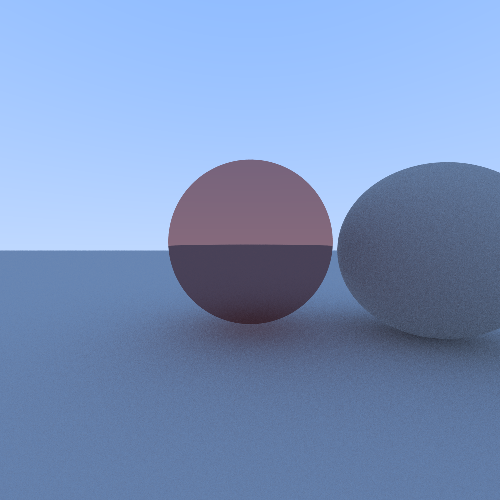
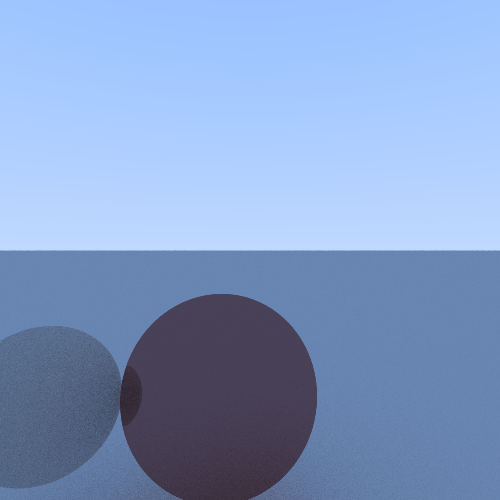
rotation

diff --git a/src/main.rs b/src/main.rs
@@ -2,44 +2,42 @@ mod vec3;
 mod render;
 mod geometry;
 use std::env;
-use vec3::{Vec3, Point};
+use vec3::Vec3;
 use render::{display, transform, Pixel};
-use geometry::{Object, Ray, Material, Reflection};
+use geometry::{Camera, Material, Object, Ray, Reflection};
 use rand::Rng;
-use std::{self, process::Command};
+use std;
 pub const WIDTH: usize = 500;
 pub const HEIGHT: usize = 500;
 //https://raytracing.github.io/books/RayTracingInOneWeekend.html
-
-const CAMERA: Point = Vec3::new(0., -3., 0.);
 
 
 
 //fragment shader -> runs for every pixel
 fn frag(x: usize, y: usize) -> Pixel{
     //uv coordinates between -focal->focal
-    let focal = 1.;
+    let focal = 0.7;
     let mut ux = (x as f32) / (WIDTH as f32) * (focal  * 2.)- focal;
     let uy = ((y as f32) / (HEIGHT as f32) * (focal * 2.) - focal) * -1.;
     ux *= WIDTH as f32/HEIGHT as f32;
     
     let white = Vec3::new(1., 1., 1.);
     let objects: Vec<Object> = vec![
-        Object::Sphere {pos: Vec3::new(2.1, 0., 0.), rad: 1., mat: Material{color: white.clone(), refl: Reflection::Diffuse()}},
+        Object::Sphere {pos: Vec3::new(0., 0., 0.), rad: 0.5, mat: Material{color: white.clone(), refl: Reflection::Diffuse()}},
         Object::Plane {pos: Vec3::new(0., 0., -1.), normal: Vec3::new(0., 0., 1.), mat: Material{color: white.clone(), refl: Reflection::Diffuse()}},
         //Object::Sphere {pos: Vec3::new(0., 0., -40.), rad: 39., mat: Material{color: Vec3::new(1., 1., 0.), refl: Reflection::Diffuse()}},
-        Object::Sphere {pos: Vec3::new(0., 0.2, 0.1), rad: 1., mat: Material{color: Vec3::new(1., 0.7, 0.7), refl: Reflection::Metal()}},
+        Object::Sphere {pos: Vec3::new(1.19, 0.2, 0.0), rad: 0.7, mat: Material{color: Vec3::new(1., 0.7, 0.7), refl: Reflection::Metal()}},
     ];
-    let c = 100;
+    let c = 50;
     let b = 50;
     let mut rng = rand::thread_rng();
     let offset: f32 = 0.001;
     let mut color_sum = Vec3::default();
+    let cam = Camera::new(Vec3::default(), Vec3::new(-20., 0., 30.), 3.);
     for _ in 0..c{
         let rand_x = rng.gen_range(-offset..offset);
         let rand_y = rng.gen_range(-offset..offset);
-        let dir = Vec3::new(ux+rand_x, 1., uy+rand_y).normalize();
-        let ray = Ray::new(CAMERA.clone(), dir.clone());
+        let ray = cam.shoot(ux+rand_x, uy+rand_y);
         color_sum = color_sum + Object::bounce(&ray, &objects, b);
     }
     //average of color samples
@@ -51,5 +49,4 @@ fn frag(x: usize, y: usize) -> Pixel{
 fn main(){
     env::set_var("RUST_BACKTRACE", "1");
     display(frag, "sample");
-    Command::new("fim").arg("sample.png").spawn().expect("failed to open image with \"fim\" package");
 }

diff --git a/src/geometry.rs b/src/geometry.rs
@@ -135,3 +135,28 @@ impl Ray {
         Self{start, dir}
     }
 }
+
+pub struct Camera {
+    start: Vec3,
+    bases: Vec<Vec<f32>>
+}
+
+impl Camera {
+    pub fn new(focus: Vec3, angle: Vec3, dist: f32) -> Self {
+        let mut start = Vec3::new(0., -1., 0.).rot_x(angle.x).rot_y(angle.y).rot_z(angle.z);
+        start = start * dist + &focus;
+        let b_vec = [Vec3::new(1., 0., 0.), Vec3::new(0., 1., 0.), Vec3::new(0., 0., 1.)];
+        for i in b_vec.clone() {
+            i.rot_x(angle.x).rot_y(angle.y).rot_z(angle.z);
+        }
+        let bases = vec![vec![b_vec[0].x, b_vec[0].y, b_vec[0].z], 
+                                    vec![b_vec[1].x, b_vec[1].y, b_vec[1].z], 
+                                    vec![b_vec[2].x, b_vec[2].y, b_vec[2].z]];
+        Self { start, bases }
+    }
+
+    pub fn shoot(&self, ux: f32, uy: f32) -> Ray {
+        let dir = (Vec3::new(ux, 1., uy) * self.bases.clone()).normalize();
+        Ray { start: self.start.clone(), dir }
+    }
+}

diff --git a/src/vec3.rs b/src/vec3.rs
@@ -192,6 +192,14 @@ impl Mul for &Vec3 {
     }
 }
 
+impl Mul<Vec<Vec<f32>>> for Vec3 {
+    type Output = Vec3;
+
+    fn mul(self, rhs: Vec<Vec<f32>>) -> Self::Output {
+        self.mat_mult(&rhs)
+    }
+}
+
 //div
 impl Div<&f32> for &Vec3{
     type Output = Vec3;
